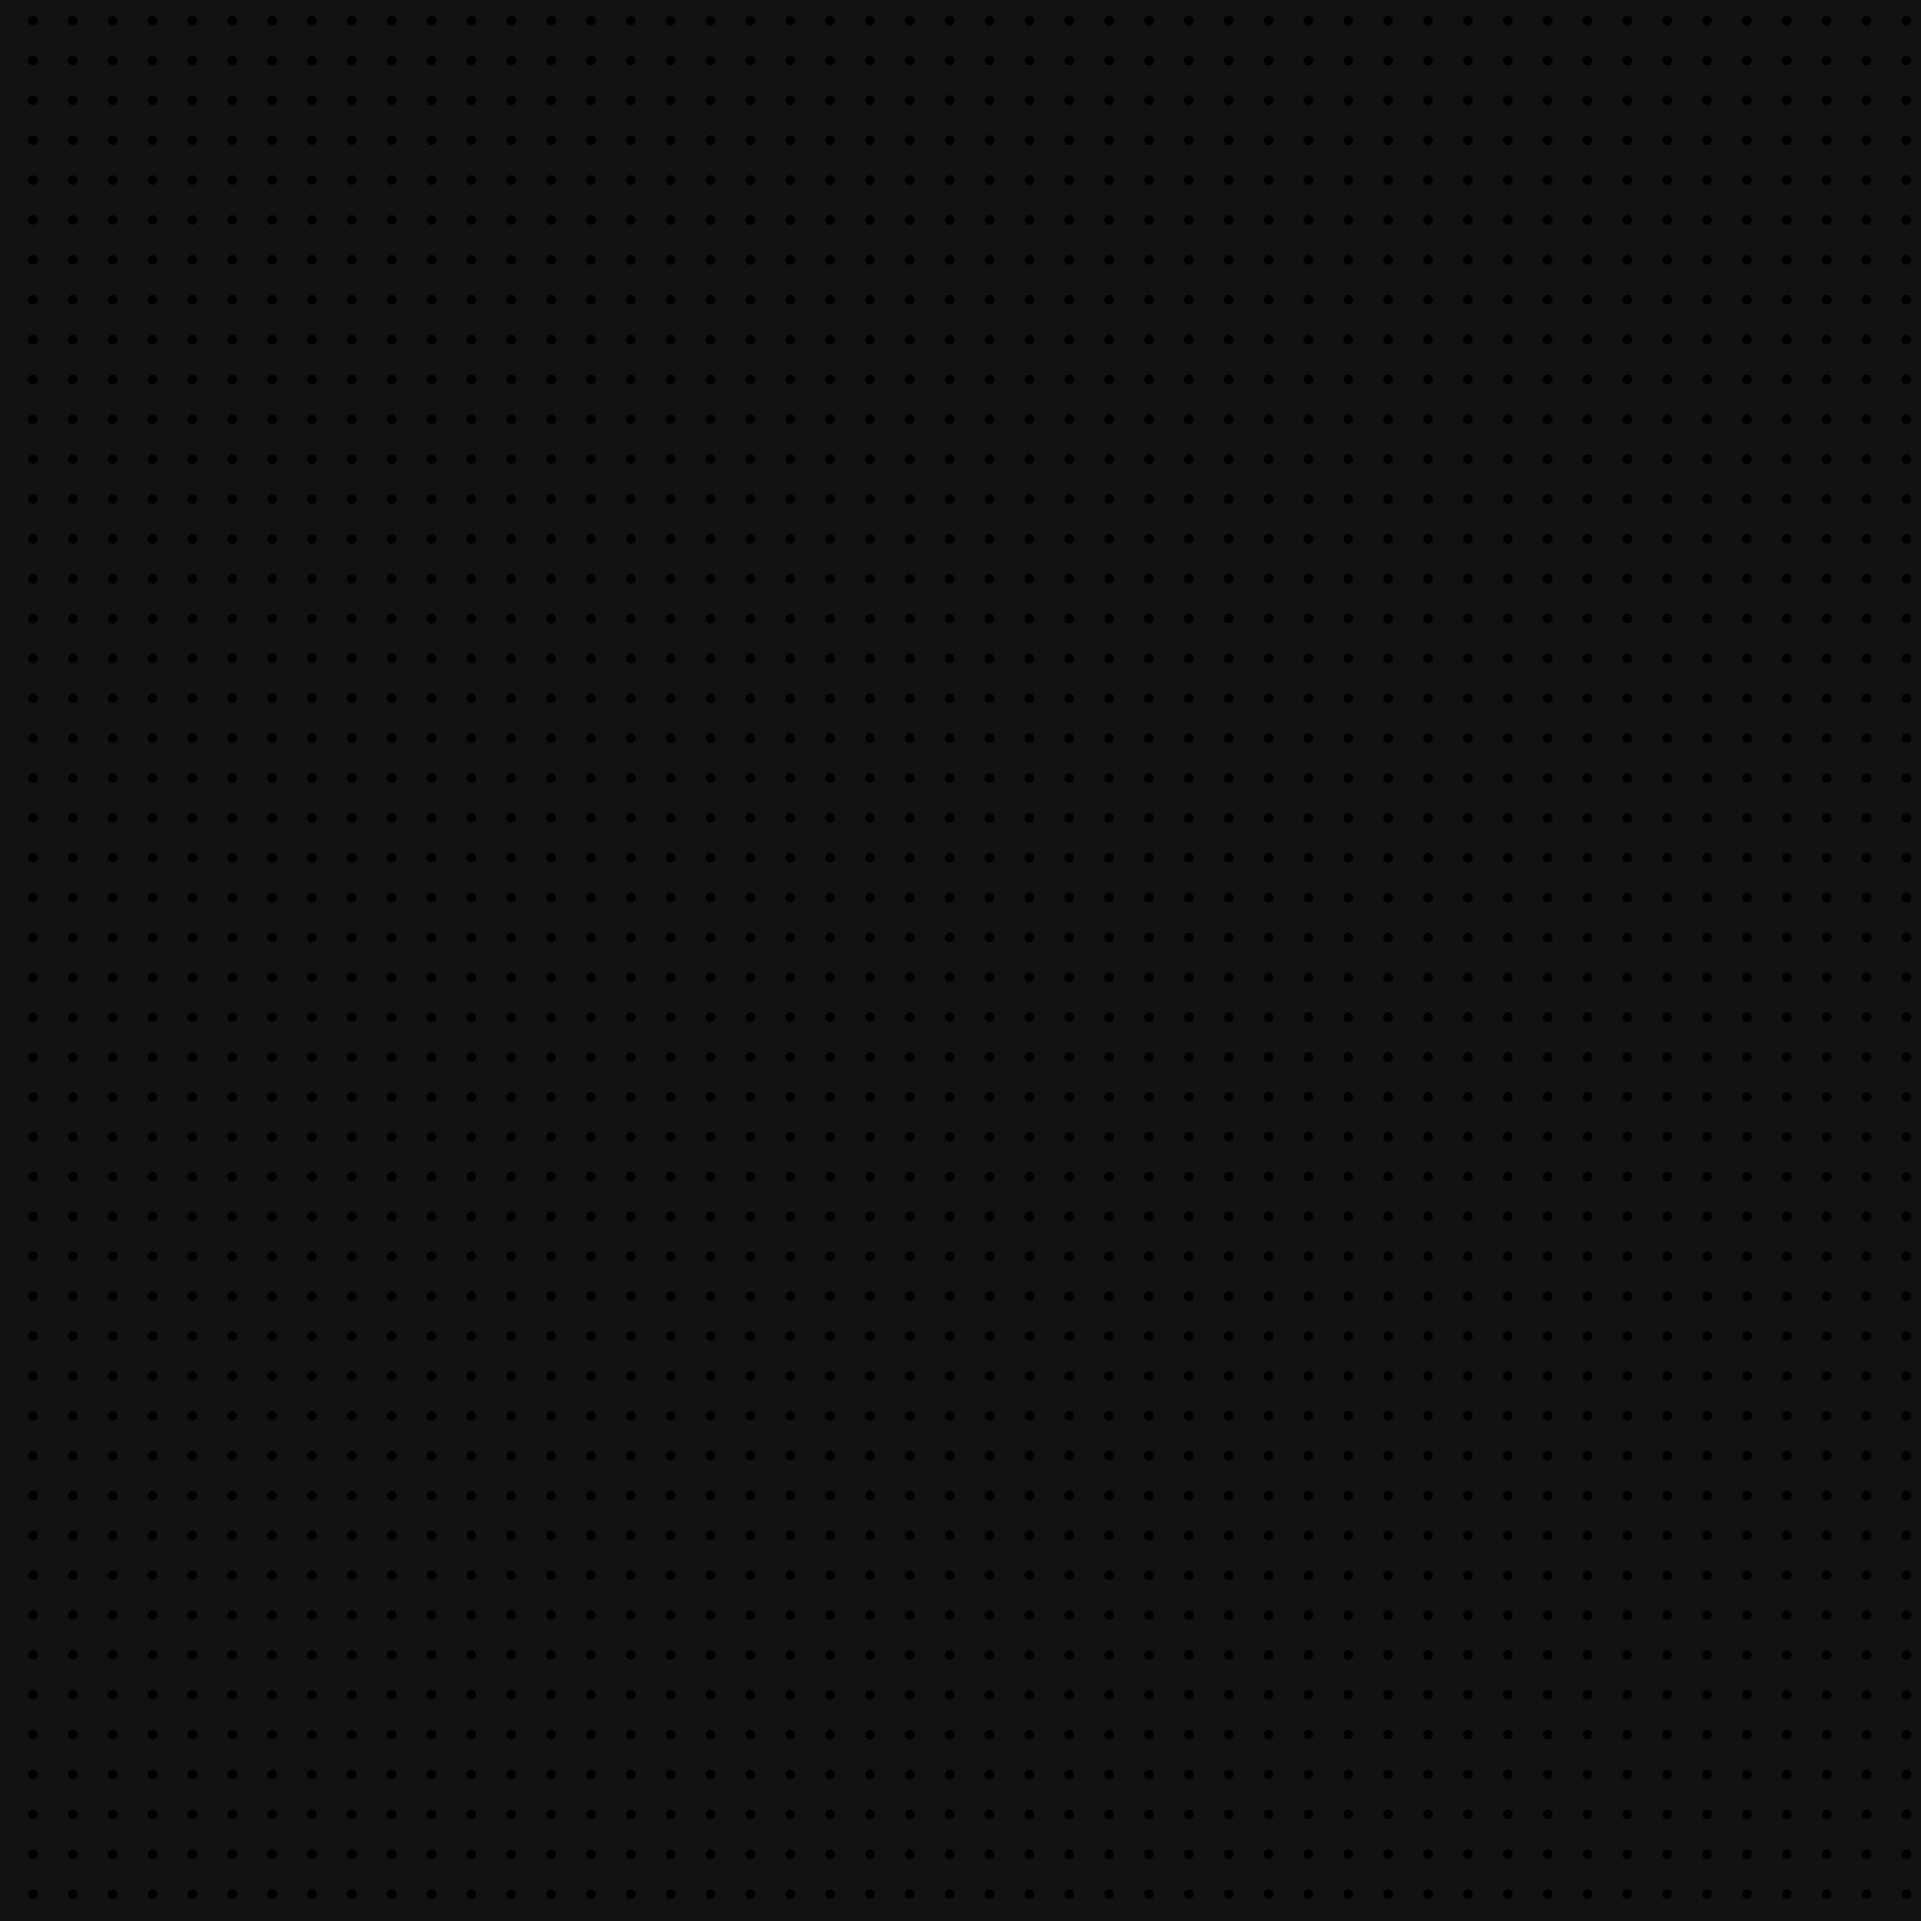
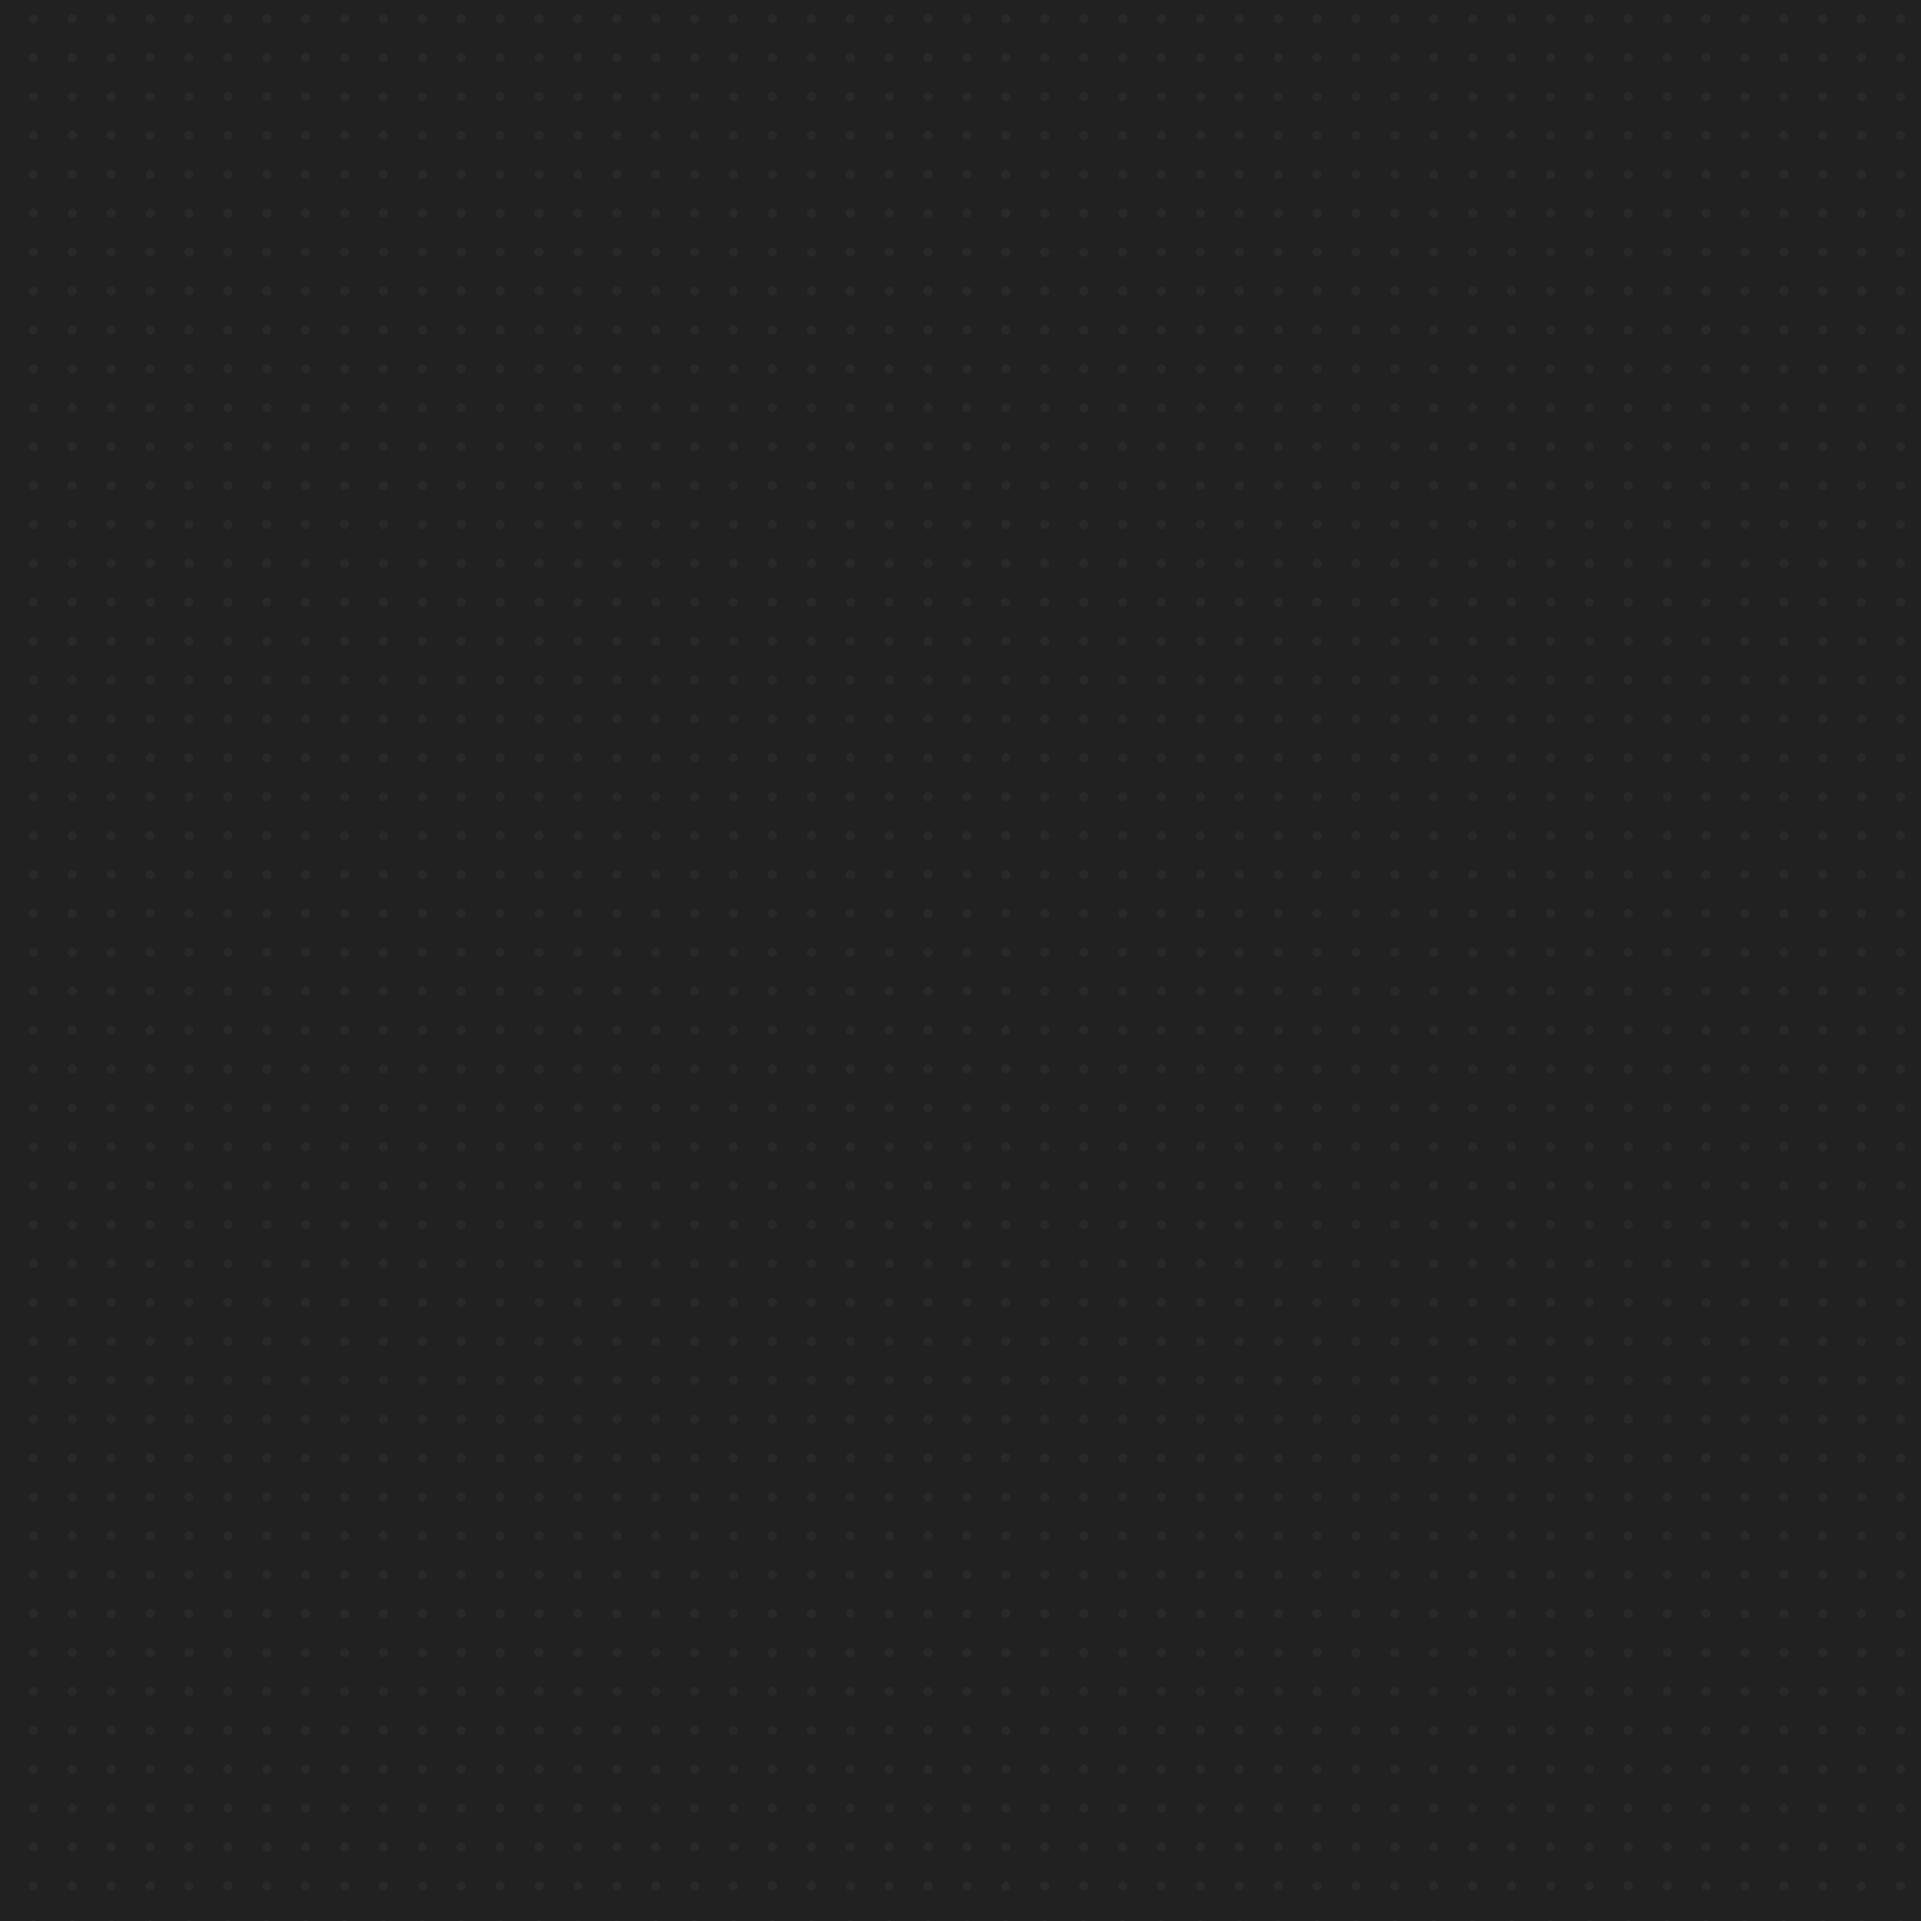
new colors added

diff --git a/components/Projects.tsx b/components/Projects.tsx
@@ -43,7 +43,7 @@ const Projects = ({ show, setShow }: propTypes) => {
         )
     }
     return (
-        <section className='my-[3rem] pb-[1.75rem] bg-white/10 p-6   rounded-lg drop-shadow-xl'>
+        <section className='my-[3rem] pb-[1.75rem] bg-white/10 p-6 bg-[url("/pattern2.png")]   rounded-lg drop-shadow-xl'>
             <h2 className='text-xl font-semibold'>Your Drawing Boards</h2>
             <div className='flex flex-wrap items-center gap-6 mt-8'>
                 {!error && projects?.map((x) =>
@@ -52,7 +52,7 @@ const Projects = ({ show, setShow }: propTypes) => {
                             <RxCross2 />
                         </div>
 
-                        <Link href={`/projects/${x["$id"]}`}  className={`h-[130px] trans relative  hover:scale-110  rounded-lg bg-black group border-b-2 border-green-400 w-[130px]  text-white grid place-items-center  cursor-pointer font-bold`}>
+                        <Link href={`/projects/${x["$id"]}`}  className={`h-[130px] trans relative  hover:scale-110  rounded-tr-lg rounded-tl-lg bg-black group border-b-2 border-green-300 w-[130px]  text-white grid place-items-center  cursor-pointer font-bold`}>
                             <div className='w-full h-full relative group overflow-hidden'>
 
                                 <div className='absolute z-10 text-sm absolute-center opacity-0 group-hover:opacity-100 trans'>{x.name}</div>

diff --git a/components/Canvas.tsx b/components/Canvas.tsx
@@ -253,7 +253,8 @@ const Canvas = ({ color }: props) => {
     return (
         <>
             <UpperToolBar undo = {undo} download = {downlaodPdf} clear = {clearCanvas} shape = {shape} setShape = {setShape} />
-            <div style={{ top: lastY, left: lastX, width: currentX - lastX, height: currentY - lastY }} className={`absolute border-2 border-white/30 ${shape === "circle" ? "rounded-full" : ""} h-5 w-5 ${!cursor ? "hidden" : "block"} top-10`}></div>
+            <div style={{ top: lastY, left: lastX, width: currentX - lastX, height: currentY - lastY }} className={`absolute border-2 border-white/30  h-5 w-5 ${cursor && shape==="square"?"block":"hidden"} top-10`}></div>
+            <div style={{ top: lastY, left: lastX, width: (currentX - lastX), height: "5px" }} className={`absolute border-2 border-white/30 ${shape === "circle" ? "rounded-full" : ""} h-5 w-5 ${cursor && shape==="circle"?"block":"hidden"} top-10`}></div>
             <Link href="/dashboard" className={`absolute left-3 rounded-md bg-white/20 top-2 text-white p-2`}>
                 <MdArrowBack />
             </Link>

diff --git a/pages/projects/[id].tsx b/pages/projects/[id].tsx
@@ -20,8 +20,8 @@ export default function Home() {
   const databases = new Databases(client)
 
 
-  const getProject = async () => {
-    const { id } =  router.query
+  const getProject = async (id:string) => {
+
     const data = await databases.getDocument("6475e4e81155c46f87b6", "6475f82bb6f201570328", id as string)
     return data
   }
@@ -40,7 +40,7 @@ export default function Home() {
   })
  
 
-  const { data: project, error, isLoading } = useQuery("project", getProject)
+  const { data: project, error, isLoading } = useQuery("project", ()=>getProject(id as string))
 
 
   if (isLoading) return <div className='w-full h-screen grid place-items-center'>Loading</div>
@@ -49,7 +49,7 @@ export default function Home() {
   // }
 
   return (
-    <div className='flex bg-[url("/pattern.png")] bg-repeat bg-contain'>
+    <div className='flex relative bg-[url("/pattern.png")] bg-repeat bg-contain'>
       <CanvasContainer />
       <Chat />
     </div>
